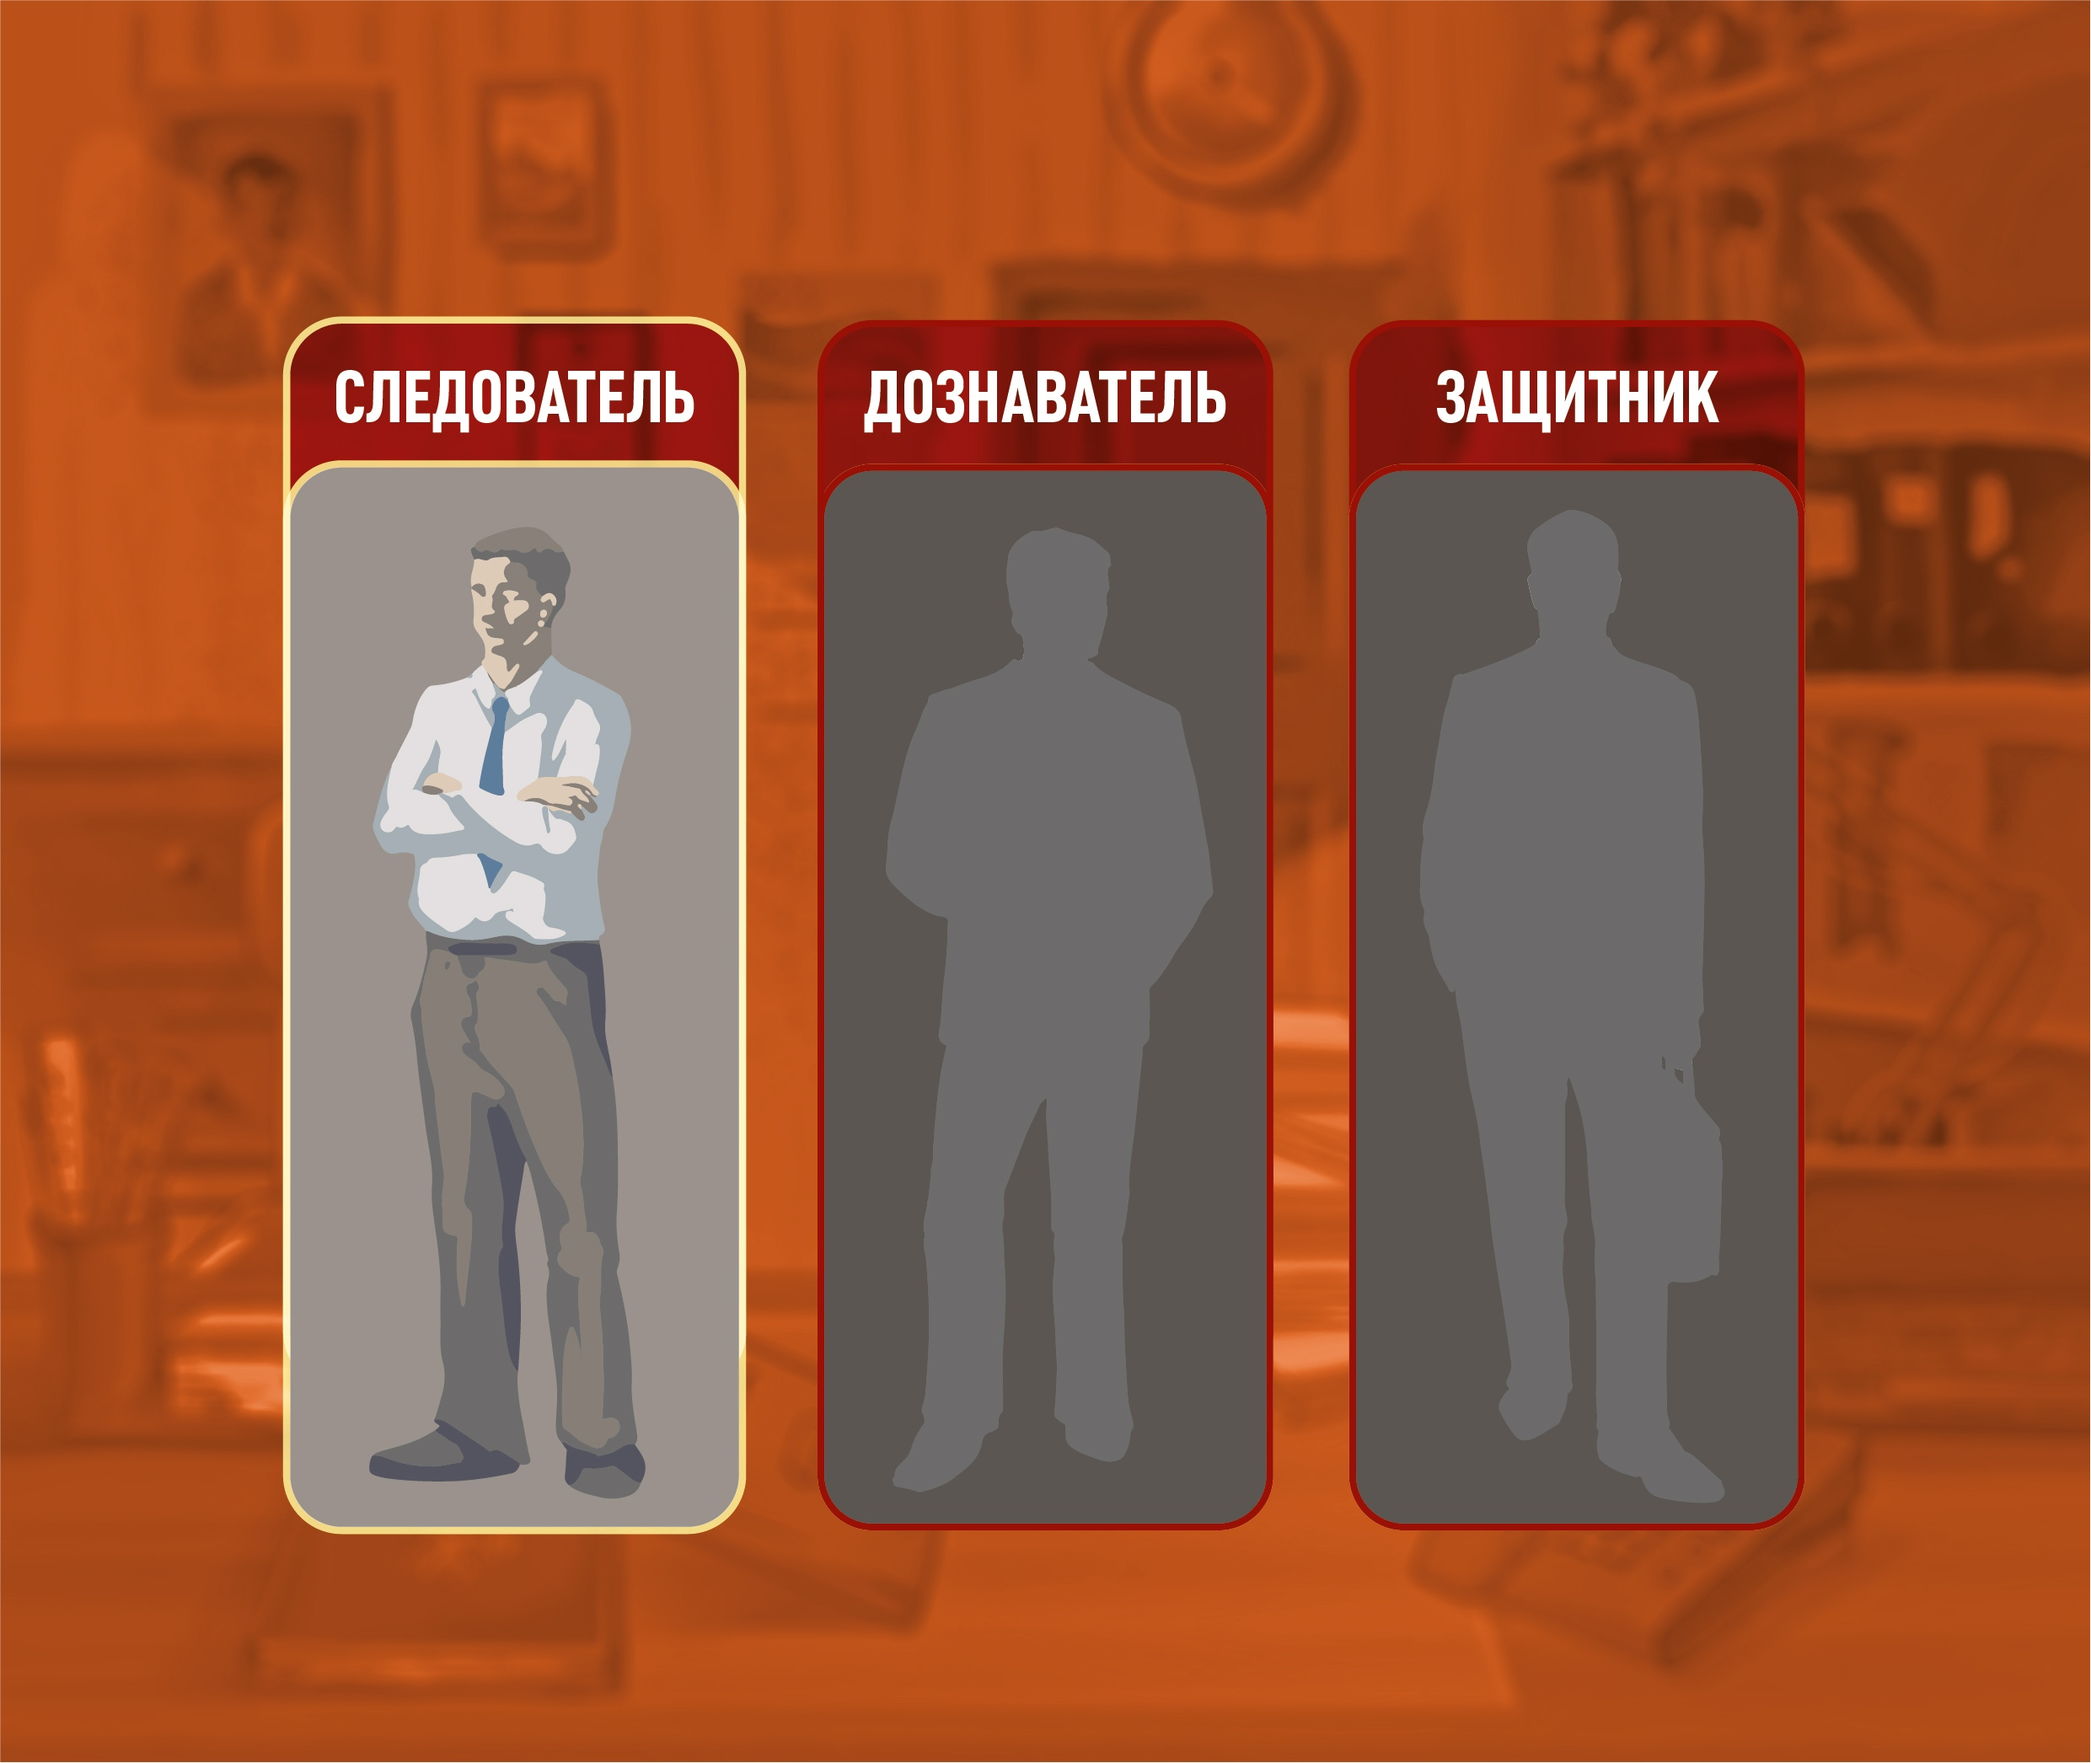
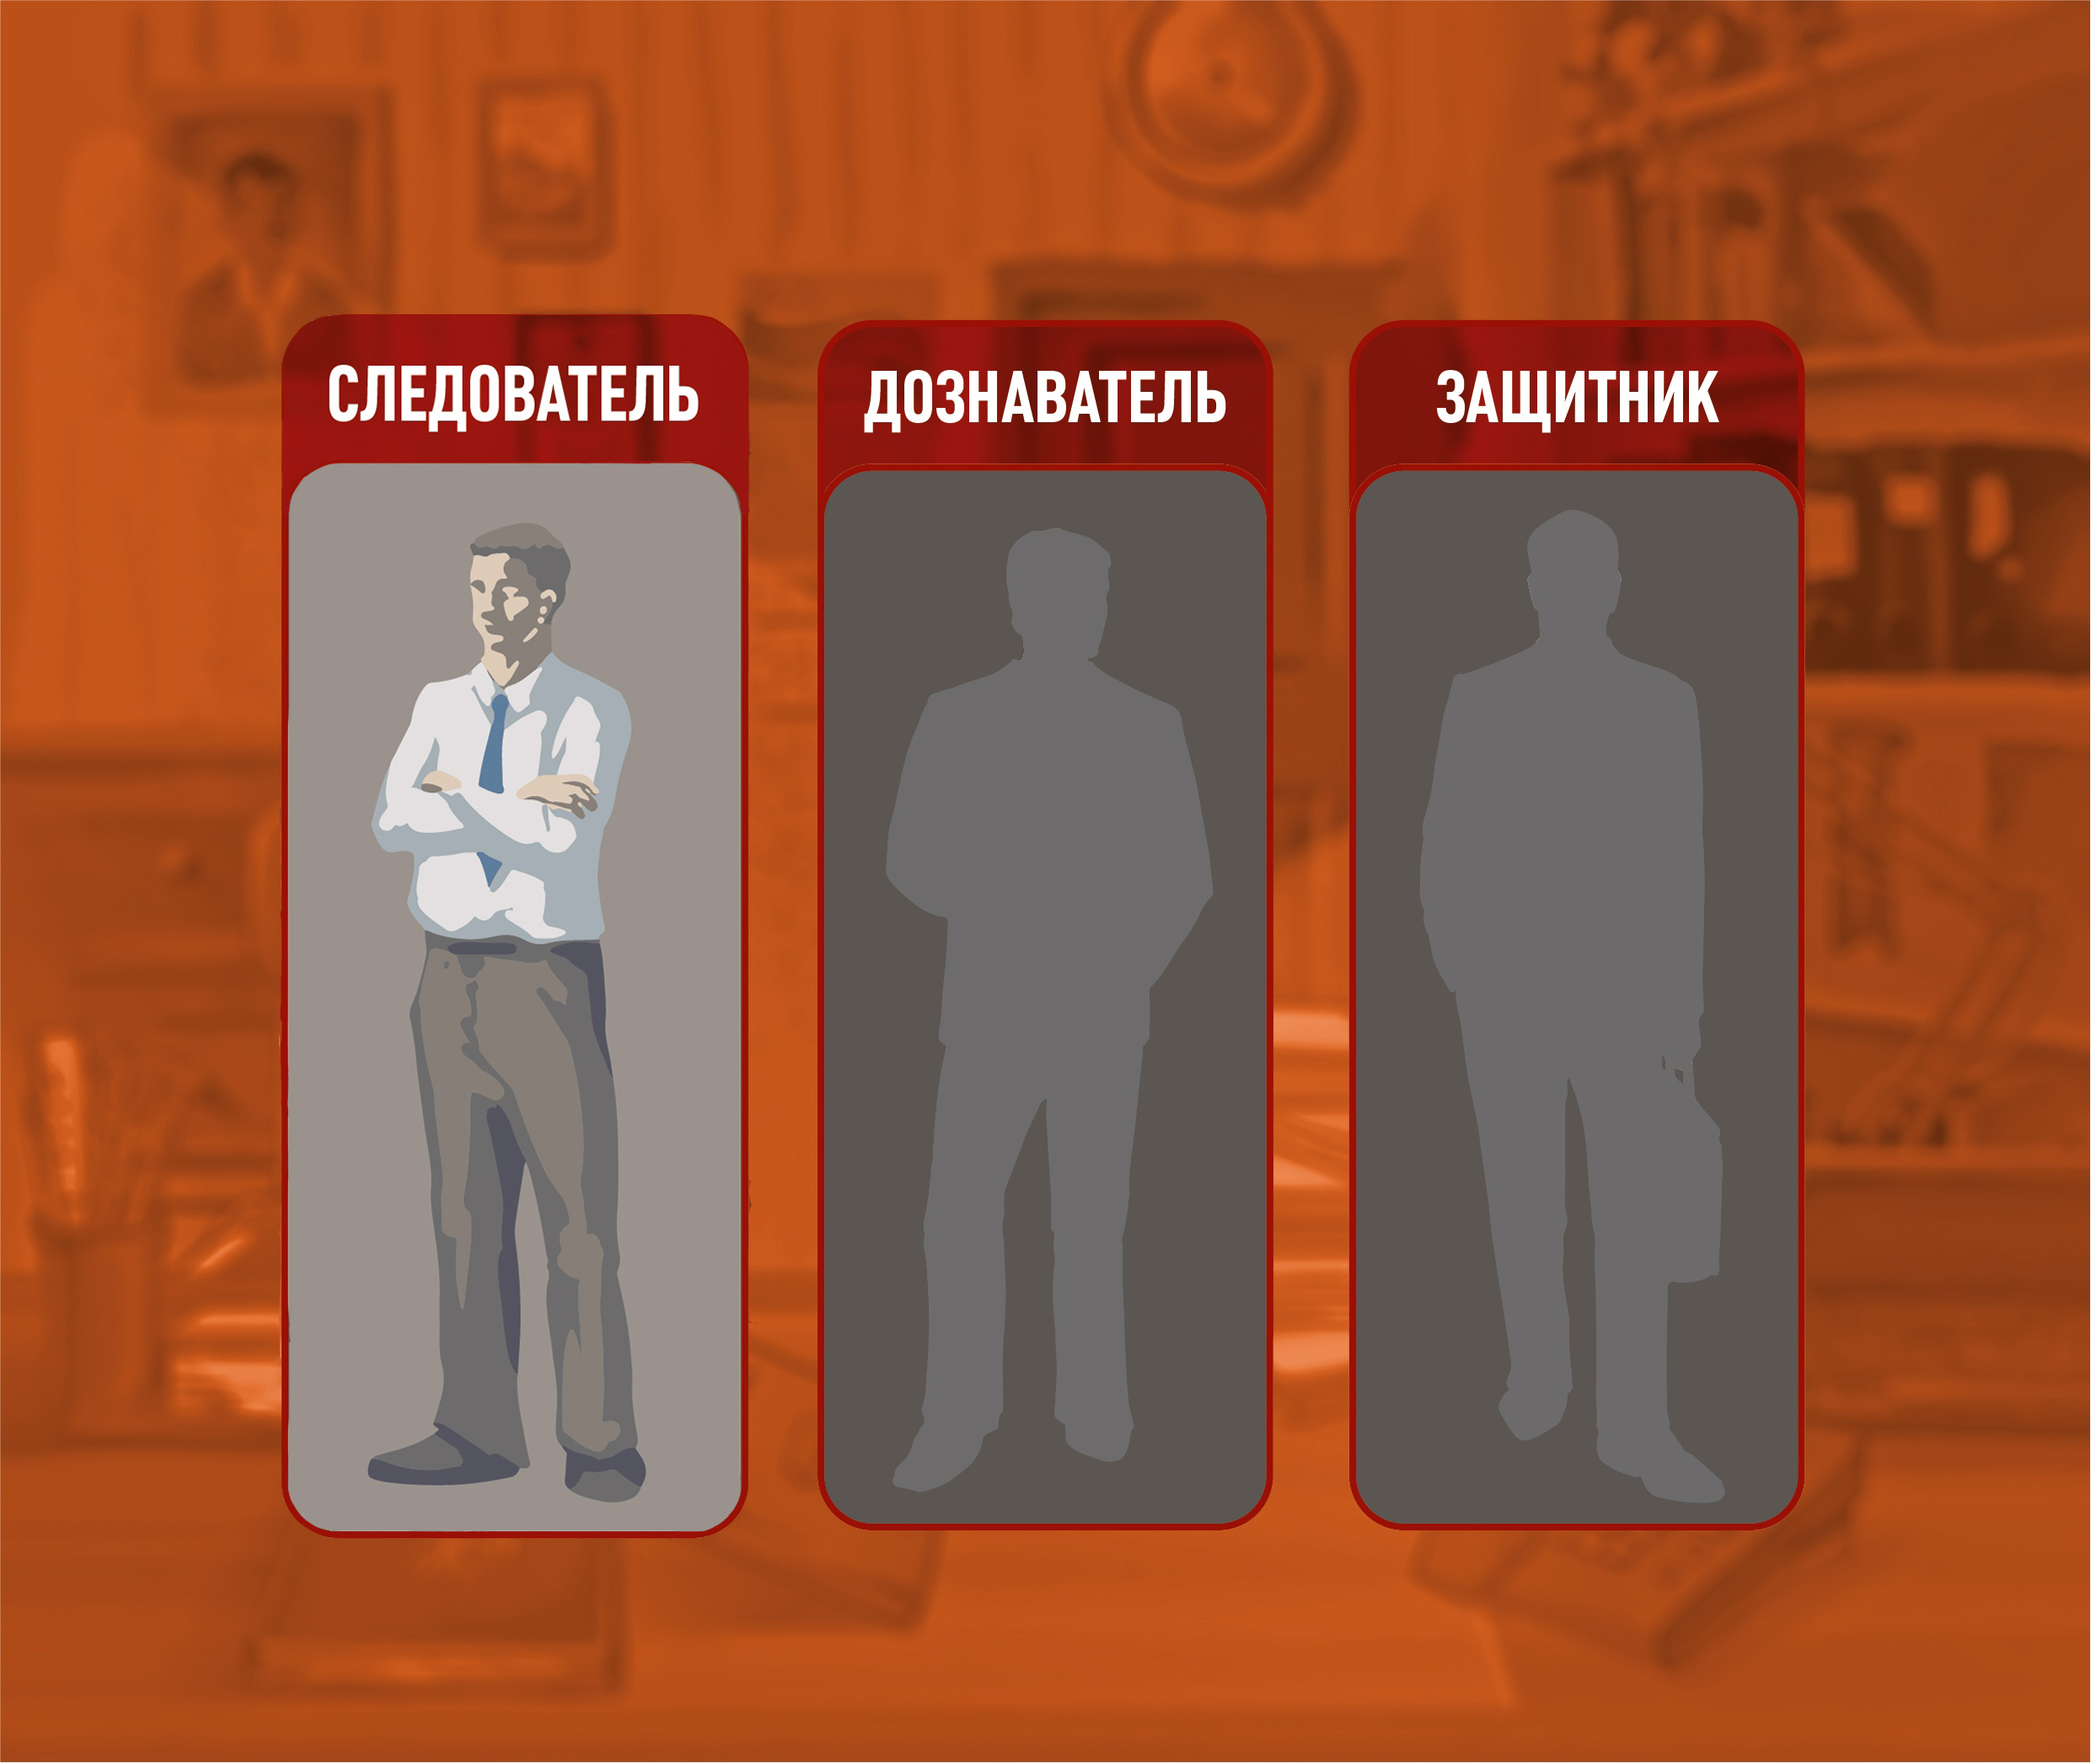
??

Changed region(s): [[0.1241, 0.1554, 0.3724, 0.87], [0.2173, 0.3107, 0.2483, 0.4039], [0.2483, 0.435, 0.2793, 0.4661]]

diff --git a/src/components/App/App.js b/src/components/App/App.js
@@ -1,6 +1,7 @@
 import '../../index.css';
 import './App.css';
 import React from 'react';
+import { useState } from 'react';
 import { Route, Routes } from 'react-router-dom'
 import { useNavigate } from 'react-router-dom';
 import MainScreen from '../MainScreen/MainScreen';
@@ -8,19 +9,40 @@ import SecondScreen from '../SecondScreen/SecondScreen';
 import ChooseCharacter from '../ChooseCharacter/ChooseCharacter';
 
 function App() {
+  const [currentCharacter, setCurrentCharacter] = useState(1)
   const navigate = useNavigate();
 
+ function changeCharacterState1(){
+    setCurrentCharacter(1)
+    document.getElementsByClassName(".buttonToChoose1").style.border = "border: 5px solid yellow;";
+    console.log("Залупа")
+ }
+ function changeCharacterState2(){
+    setCurrentCharacter(2)
+ }
+ function changeCharacterState3(){
+  setCurrentCharacter(3)
+ }
+ function nextPage(){
+  const gfgf = 4;
+  if(currentCharacter = 1) {navigate("/jija1")}
+  if(currentCharacter = 2) {navigate("/jija2")}
+  if(currentCharacter = 3) {navigate("/jija3")}
 
-  function GoNext(){
-    let path = `/start`
-    navigate(path)
-  }
-
+  // ? currentCharacter = 1 : navigate("/jija")
+  // ? currentCharacter = 2 : navigate("/jija2")  
+  // ? currentCharacter = 3 : navigate("/jija3");
+ }
   return (
     <Routes>
-      <Route path="/"exact element={<MainScreen/>} onClick={GoNext}></Route>
-      <Route path="/start" exact element={<SecondScreen/>}></Route>
-      <Route path="/choosecharacter" exact element={<ChooseCharacter/>}></Route>
+      <Route path="/"exact element={<MainScreen/>}/>
+      <Route path="/start" exact element={<SecondScreen/>}/>
+      <Route path="/choosecharacter" exact element={<ChooseCharacter/>} 
+      changeCharacterState1={changeCharacterState1} 
+      changeCharacterState2={changeCharacterState2} 
+      changeCharacterState3={changeCharacterState3}
+      nextPage={nextPage}
+      />
     </Routes>
   );
 }

diff --git a/src/components/ChooseCharacter/ChooseCharacter.js b/src/components/ChooseCharacter/ChooseCharacter.js
@@ -5,10 +5,19 @@ import res2 from '../../images/buttons/Resurs_2_4x.png'
 import { Link } from 'react-router-dom';
 
 
-function ChooseCharacter(){
+function ChooseCharacter(changeCharacterState2, changeCharacterState3, nextPage){
+
+    const changeCharacterState1 = () => {
+        document.getElementsById("12").style.border = "border: 5px solid yellow;";
+        console.log("Залупа")
+    }
+    
     return(
         <div className='App'>
         <div>
+            <button id='12' className='buttonToChoose1' onClick={changeCharacterState1}/>
+            <button className='buttonToChoose2' onClick={changeCharacterState2}/>
+            <button className='buttonToChoose3' onClick={changeCharacterState3}/>
             <img width="640" height="542" src={p2} alt="p2"></img>
             <a title='Следователь' target="_blank" rel='nooper noreferrer' href='https://drive.google.com/file/d/1Qqku69nm-I09zpUbsrNlUvIVsbru2P1m/view'>
                 <img alt='Следователь' src={res2} style={{position: 'absolute', width: '30px', top: '157px', left: 'calc(50% - 132px)'}}/>
@@ -17,8 +26,9 @@ function ChooseCharacter(){
                 <img className='criminal-case' alt='Следователь' src={res1}/>
             </a>
             <div className="Buttons">
-                <Link className='linkButton'>Дальше</Link>
+                <button className='linkButton' onClick={nextPage}>Дальше</button>
             </div>
+
         </div>
         </div>
     )

diff --git a/src/components/ChooseCharacter/ChooseCharacter.css b/src/components/ChooseCharacter/ChooseCharacter.css
@@ -4,3 +4,53 @@
     width: 58px;
     top: 19px;
 }
+.buttonToChoose1{
+    display: inline-block;
+    position: absolute;
+    right: calc(50% + 90px);
+    width: 145px;
+    height: 377px;
+    top: 95px;
+    border-radius: 20px;
+    cursor: pointer;
+    background: transparent;
+    border: none;
+}
+.buttonToChoose1:hover{
+    background-color: transparent;
+    border: 5px solid yellow;
+}
+.buttonToChoose2:hover{
+    background-color: transparent;
+    border: 5px solid yellow;
+}
+.buttonToChoose3:hover{
+    background-color: transparent;
+    border: 5px solid yellow;
+}
+
+.buttonToChoose2{
+    display: inline-block;
+    position: absolute;
+    right: calc(50% + -73px);
+    width: 145px;
+    height: 375px;
+    top: 97px;
+    border-radius: 20px;
+    cursor: pointer;
+    background: transparent;
+    border: none;
+}
+
+.buttonToChoose3{
+    display: inline-block;
+    position: absolute;
+    right: calc(50% + -235px);
+    width: 145px;
+    height: 375px;
+    top: 97px;
+    border-radius: 20px;
+    cursor: pointer;
+    background: transparent;
+    border: none;
+}
